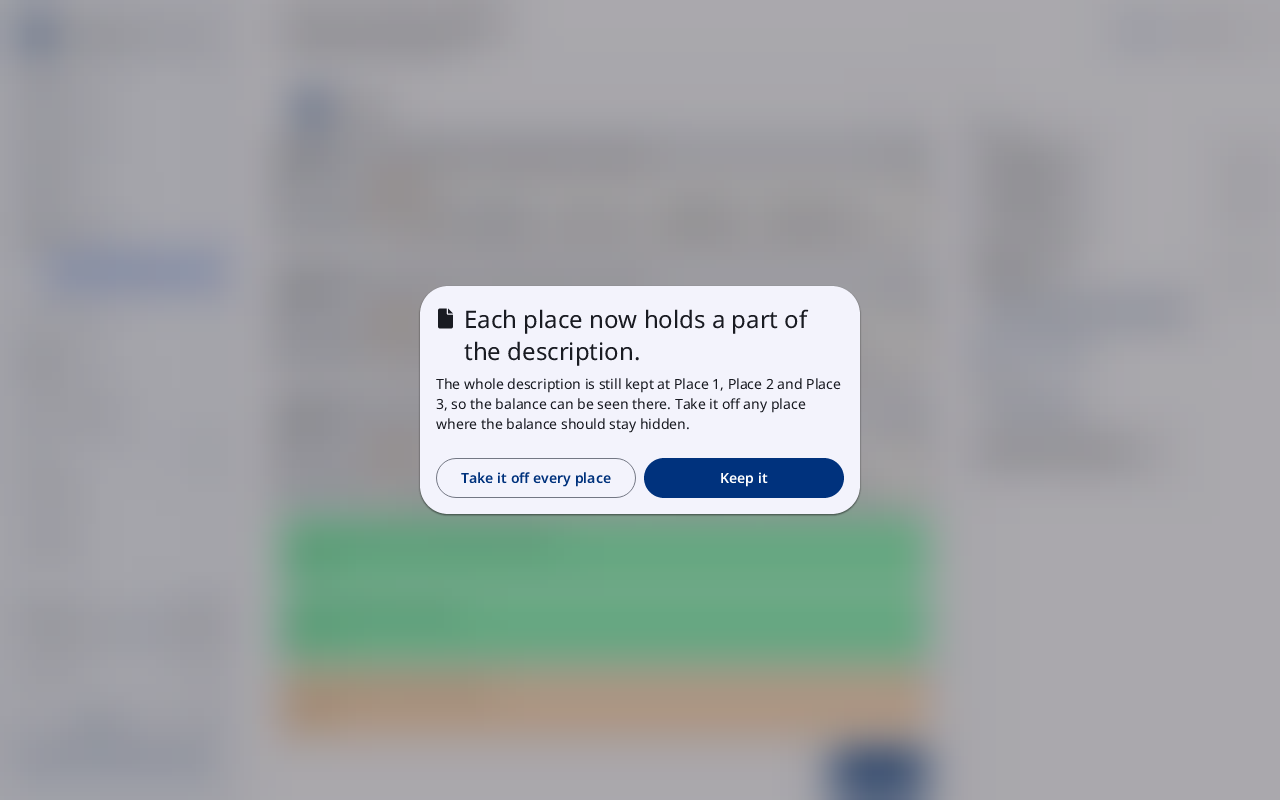
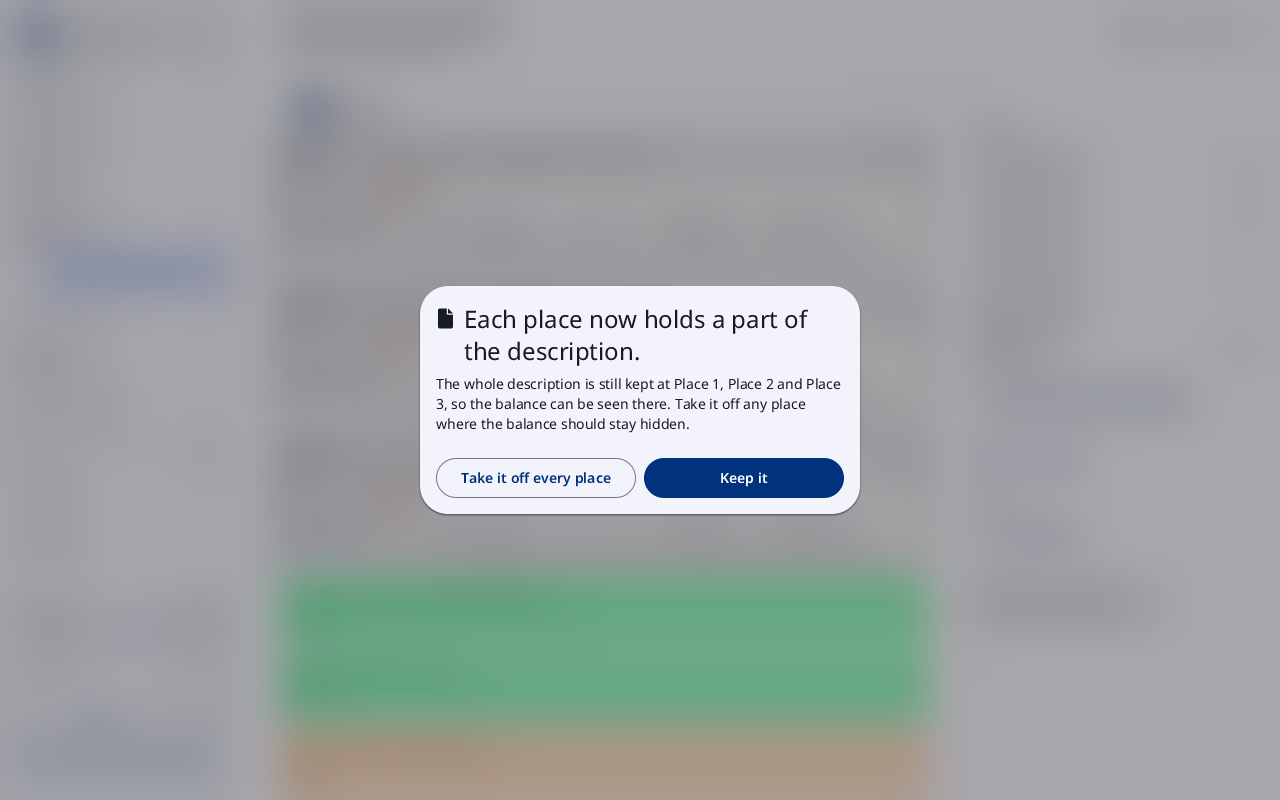
The backup board's item chips are rows one touch target high (48 dp, 44 dp on the compact and short layout), so their ⋮ and × take a full press, and Bring in the sticks' figures have inner padding with their lines level beside the ⋮ and a height fitted to their content. Nothing else on the board mov
Checked against Material 3's Lists page (one-line list items with trailing icon buttons).

Material: Lists (one-line list items, trailing icon buttons)
Reviewed: tree.image-metadata
Reviewed: guide.pictures
Reviewed: strings.plain
Reviewed: structure.areas-private
Reviewed: crypto.at-source
Reviewed: crypto.kept-values
Reviewed: crypto.costs-said
Reviewed: keys.secret-files
Reviewed: keys.child-vault-only
Reviewed: speed.late-flow-timed
Reviewed: speed.shown-secret-held
Reviewed: design.left-out
Claude-Session: https://claude.ai/code/session_01Nu65ePeght7kZfEkyut5bc

Changed region(s): [[0.1875, 0.8125, 0.75, 1.0], [0.2188, 0.625, 0.75, 0.7188]]

diff --git a/faraday/faraday-core/src/board/screen.rs b/faraday/faraday-core/src/board/screen.rs
@@ -139,6 +139,12 @@ fn glyph(t: Thing) -> Option<Icon> {
     }
 }
 
+/// The height in dp of a chip: a row at the touch-target floor of the
+/// layout (`docs/LAYOUT.md` §2, F188), so its ⋮ and × take a full press.
+fn chip_h(ui: &Ui) -> f32 {
+    ui.touch
+}
+
 /// A chip's name is read character by character: a fingerprint.
 fn mono(t: Thing) -> bool {
     matches!(t, Thing::Seed(_) | Thing::Pass(_) | Thing::Kef(_))
@@ -271,13 +277,13 @@ fn chip_size(ui: &Ui, cv: &ChipView, avail: f32) -> Fit {
     } else {
         tokens::BOARD_CHIP_GAP + ui.measure_as(BODY_S, &format!("· {}", cv.marks))
     };
-    let one = tokens::BOARD_CHIP;
+    let one = chip_h(ui);
     // The forms under the name wrap at the chip's width, a row each.
     let rows = toggle_rows(ui, cv, avail - 2.0 * tokens::BOARD_PAD) as f32;
     let two = if cv.forms.is_empty() {
-        tokens::BOARD_CHIP + ui.line_as(BODY_S)
+        chip_h(ui) + ui.line_as(BODY_S)
     } else {
-        tokens::BOARD_CHIP
+        chip_h(ui)
             + tokens::BOARD_TAG
             + (rows - 1.0) * (tokens::BOARD_TAG + tokens::BOARD_CHIP_GAP)
     };
@@ -415,7 +421,7 @@ fn toggles(ui: &mut Ui, cv: &ChipView, (x, y, room): (f32, f32, f32), line_h: f3
 fn chip(ui: &mut Ui, fr: &mut Frame, cv: &ChipView, x: f32, y: f32, fit: Fit, hits: bool) {
     let (w, h) = (fit.w, fit.h);
     let t = cv.chip.thing();
-    let r = tokens::BOARD_CHIP / 2.0;
+    let r = chip_h(ui) / 2.0;
     let held = fr.held == Some(cv.chip);
     let lifted = held && fr.drag.is_some() && hits;
     let action = Action::Board(BoardPress::Chip(cv.chip));
@@ -434,7 +440,7 @@ fn chip(ui: &mut Ui, fr: &mut Frame, cv: &ChipView, x: f32, y: f32, fit: Fit, hi
     } else {
         Role::OnSurface
     };
-    let line_h = tokens::BOARD_CHIP;
+    let line_h = chip_h(ui);
     let step = tokens::BOARD_MARK + tokens::BOARD_CHIP_GAP;
     let g = glyph(t);
     let cx = x + tokens::BOARD_PAD + if g.is_some() { step } else { 0.0 };
@@ -697,7 +703,7 @@ fn band(ui: &mut Ui, x: f32, y: f32, w: f32, h: f32, color: crate::ui::Paint) {
 fn paper_h(ui: &Ui, chips: &[ChipView], w: f32) -> f32 {
     let pad = tokens::BOARD_PAD;
     let (_, ch) = flow(ui, chips, 0.0, 0.0, w - 2.0 * pad);
-    tokens::BOARD_ZONE_LABEL + ch.max(tokens::BOARD_CHIP) + pad
+    tokens::BOARD_ZONE_LABEL + ch.max(chip_h(ui)) + pad
 }
 
 /// A zone box's colours: its fill, its edge, and its label's.
@@ -1297,7 +1303,7 @@ fn stick_parts(ui: &Ui, st: &crate::board::StickView, w: f32) -> (f32, Vec<f32>)
         .iter()
         .map(|vv| {
             let (_, inner_h) = flow(ui, &vv.inside.chips, 0.0, 0.0, iw - 2.0 * vp);
-            tokens::BOARD_VAULT_HEAD + vp + inner_h.max(tokens::BOARD_CHIP) + vp
+            tokens::BOARD_VAULT_HEAD + vp + inner_h.max(chip_h(ui)) + vp
         })
         .collect();
     (paper_h(ui, &st.files.chips, iw), vault_hs)
@@ -1544,7 +1550,7 @@ fn entry(
         cross(
             ui,
             x + w - off_w / 2.0,
-            y + tokens::BOARD_CHIP / 2.0,
+            y + chip_h(ui) / 2.0,
             Role::OnSurfaceVariant.paint(),
         );
     }
@@ -1558,7 +1564,7 @@ fn entry(
                 x,
                 cy,
                 w,
-                tokens::BOARD_CHIP,
+                chip_h(ui),
                 &[(
                     EN.board_take_off,
                     Style::Secondary,
@@ -1619,7 +1625,7 @@ fn list(ui: &mut Ui, fr: &mut Frame, v: &BoardView, x: f32, y: f32, w: f32) -> f
             x,
             cy,
             w,
-            tokens::BOARD_CHIP,
+            chip_h(ui),
             &[(label, Style::Secondary, Action::Board(BoardPress::Partials))],
         ) + gap;
         // The Learn page on shares, as the description card had it.
@@ -1629,12 +1635,12 @@ fn list(ui: &mut Ui, fr: &mut Frame, v: &BoardView, x: f32, y: f32, w: f32) -> f
             x,
             cy,
             Some(bw),
-            tokens::BOARD_CHIP,
+            chip_h(ui),
             label,
             Style::Ghost,
             Action::LearnShares,
         );
-        cy += tokens::BOARD_CHIP + gap;
+        cy += chip_h(ui) + gap;
     } else if let Some(Some(line)) = v.splits {
         // A multisig whose description does not split, and why.
         cy += gap;
@@ -1654,7 +1660,7 @@ fn list(ui: &mut Ui, fr: &mut Frame, v: &BoardView, x: f32, y: f32, w: f32) -> f
         x,
         cy,
         w,
-        tokens::BOARD_CHIP,
+        chip_h(ui),
         &[(
             EN.board_add_vault,
             Style::Secondary,
@@ -1965,7 +1971,7 @@ pub(crate) fn board(app: &View, ui: &mut Ui, x: f32, y: f32, w: f32) -> f32 {
         } else {
             read_only_buttons(&v)
         };
-        cy += faraday_ui::parts::wrap_buttons(ui, x, cy, w, tokens::BOARD_CHIP, &buttons)
+        cy += faraday_ui::parts::wrap_buttons(ui, x, cy, w, chip_h(ui), &buttons)
             + tokens::BOARD_PAD;
     }
     cy += cells(ui, &mut fr, &v, (x, cy, ww), cols);
@@ -2094,7 +2100,7 @@ fn list_in(app: &View, ui: &mut Ui, (px, top, pw, view): Box4, card: bool) {
                 x,
                 cy,
                 w,
-                tokens::BOARD_CHIP,
+                chip_h(ui),
                 &read_only_buttons(&v),
             );
         }
@@ -2147,7 +2153,7 @@ fn list_in(app: &View, ui: &mut Ui, (px, top, pw, view): Box4, card: bool) {
             gy,
             fit.w,
             fit.h,
-            tokens::BOARD_CHIP / 2.0,
+            chip_h(ui) / 2.0,
             tokens::ELEVATION_RAISED,
         );
         let mut ghost = Frame { held: None, ..fr };
@@ -2155,7 +2161,7 @@ fn list_in(app: &View, ui: &mut Ui, (px, top, pw, view): Box4, card: bool) {
         edge(
             ui,
             (gx, gy, fit.w, fit.h),
-            tokens::BOARD_CHIP / 2.0,
+            chip_h(ui) / 2.0,
             Role::Primary.paint(),
         );
     }

diff --git a/faraday/faraday-core/src/backup_flow/figures.rs b/faraday/faraday-core/src/backup_flow/figures.rs
@@ -320,6 +320,30 @@ fn figures(app: &View, f: &BackupFlow) -> Vec<Figure> {
         .collect()
 }
 
+/// The inner padding of a figure: the stick head's own inset, so the
+/// lines stand under its glyph.
+const PAD: f32 = BOARD_STICK_PAD + GAP_SMALL;
+
+/// The room a figure's ⋮ button takes at its right end, on the lines
+/// that stand beside it.
+const DOTS_ROOM: f32 = TOUCH + GAP_SMALL;
+
+/// Whether an item is a button, a full-width press that stands under
+/// the ⋮ and never beside it.
+fn is_button(it: &Item) -> bool {
+    matches!(it, Item::Boot(_) | Item::Later(_))
+}
+
+/// The width of an item whose top is `top` below the figure's top, in
+/// `inner` of room: narrower where the ⋮ stands beside it.
+fn item_w(fg: &Figure, it: &Item, top: f32, inner: f32) -> f32 {
+    if fg.dots && !is_button(it) && top < BOARD_STICK_PAD + TOUCH {
+        inner - DOTS_ROOM
+    } else {
+        inner
+    }
+}
+
 fn item_h(ui: &Ui, it: &Item, w: f32) -> f32 {
     match it {
         Item::Text(t, _) => ui.wrap_height_as(BODY_S, t, w),
@@ -329,19 +353,31 @@ fn item_h(ui: &Ui, it: &Item, w: f32) -> f32 {
     }
 }
 
+/// Where each item of `fg` starts below the figure's top, its width and
+/// its height, and the figure's height. The lines start under the head
+/// in every state, the ⋮ beside them; a button starts under the ⋮.
+fn place(ui: &Ui, fg: &Figure, w: f32) -> (Vec<(f32, f32, f32)>, f32) {
+    let inner = w - 2.0 * PAD;
+    let mut top = BOARD_STICK_HEAD;
+    let mut out = Vec::with_capacity(fg.items.len());
+    for it in &fg.items {
+        if fg.dots && is_button(it) {
+            top = top.max(BOARD_STICK_PAD + TOUCH + GAP_SMALL);
+        }
+        let iw = item_w(fg, it, top, inner);
+        let ih = item_h(ui, it, iw);
+        out.push((top, iw, ih));
+        top += ih + GAP_SMALL;
+    }
+    let mut h = top + PAD - GAP_SMALL;
+    if fg.dots {
+        h = h.max(BOARD_STICK_PAD + TOUCH + BOARD_STICK_PAD);
+    }
+    (out, h)
+}
+
 fn figure_h(ui: &Ui, fg: &Figure, w: f32) -> f32 {
-    let top = if fg.dots {
-        TOUCH + BOARD_STICK_PAD
-    } else {
-        BOARD_STICK_HEAD
-    };
-    let inner = w - 2.0 * BOARD_STICK_PAD;
-    let body: f32 = fg
-        .items
-        .iter()
-        .map(|it| item_h(ui, it, inner) + GAP_SMALL)
-        .sum();
-    (top + body + BOARD_STICK_PAD).max(TOUCH)
+    place(ui, fg, w).1
 }
 
 /// The figures from (x, y) in `w`. Returns their height.
@@ -369,30 +405,29 @@ pub(crate) fn draw(app: &View, f: &BackupFlow, ui: &mut Ui, x: f32, y: f32, w: f
 }
 
 fn draw_one(ui: &mut Ui, fr: &board_screen::CardFrame, fg: &Figure, r: (f32, f32, f32, f32)) {
-    let (x, y, w, h) = r;
-    let head = board_screen::card_stick(ui, fr, &fg.name, r, fa(F::Want(fg.k)), false);
+    let (x, y, w, _) = r;
+    board_screen::card_stick(ui, fr, &fg.name, r, fa(F::Want(fg.k)), false);
     match fg.state {
         State::Reading => menu::outline(ui, r, GAP, BOARD_EDGE, Role::Primary.paint()),
         State::Checked => menu::outline(ui, r, GAP, BOARD_EDGE, Role::Ok.paint()),
         State::Problem(_) => menu::outline(ui, r, GAP, BOARD_EDGE, Role::Error.paint()),
         State::Waiting | State::Later => {}
     }
-    let sp = BOARD_STICK_PAD;
-    let inner = w - 2.0 * sp;
-    let mut cy = y + if fg.dots { TOUCH + sp } else { head };
+    let sp = PAD;
+    let (spots, _) = place(ui, fg, w);
     if fg.dots {
         // Inside the card's edge, as its content is.
         menu::button(
             ui,
-            x + w - sp - TOUCH,
-            y + sp,
+            x + w - BOARD_STICK_PAD - TOUCH,
+            y + BOARD_STICK_PAD,
             TOUCH,
             fa(F::FigMenu(fg.k)),
             false,
         );
     }
-    for it in &fg.items {
-        let ih = item_h(ui, it, inner);
+    for (it, (top, inner, ih)) in fg.items.iter().zip(spots) {
+        let cy = y + top;
         match it {
             Item::Text(t, role) => {
                 ui.wrap_as((x + sp, cy, inner), BODY_S, *role, t);
@@ -441,9 +476,7 @@ fn draw_one(ui: &mut Ui, fr: &board_screen::CardFrame, fg: &Figure, r: (f32, f32
                 );
             }
         }
-        cy += ih + GAP_SMALL;
     }
-    debug_assert!(cy <= y + h + 1.0);
 }
 
 /// A figure's ⋮ menu (`docs/STICK-SETUP.md` §3.3, §4), as every ⋮ menu is

diff --git a/core/faraday-draw/src/tokens.rs b/core/faraday-draw/src/tokens.rs
@@ -586,7 +586,9 @@ pub const SILENT_LINE_GAP: f32 = 14.0;
 pub const CREATE_FIELD_LABEL: f32 = 20.0;
 /// Least height in dp of a Create card's wrapped value line.
 pub const CREATE_VALUE_MIN: f32 = 18.0;
-/// Height in dp of a chip, on the cards and in the list.
+/// Height in dp of a row of the Layout screen's vault chips and the least
+/// height of a board's row of boxes; the board's chips are one touch
+/// target high (`tokens::touch`).
 pub const BOARD_CHIP: f32 = 28.0;
 /// The gap in dp between two chips, beside or under each other.
 pub const BOARD_CHIP_GAP: f32 = GAP_SMALL;

diff --git a/faraday/shells/snapshot/src/targets.rs b/faraday/shells/snapshot/src/targets.rs
@@ -31,9 +31,8 @@ pub(crate) fn excepted(action: &str, small: bool) -> bool {
         return true;
     }
     // The codex32 worksheet's cells, a grid that must be read whole
-    // (F152), and the backup board's chips, sharing the gap with their
-    // neighbours (F108).
-    action.starts_with("Codex32(Cell(") || action.starts_with("Board(Chip(")
+    // (F152).
+    action.starts_with("Codex32(Cell(")
 }
 
 /// The line `targets.txt` and the test's report carry for `s`, found in

diff --git a/docs/DESIGN.md b/docs/DESIGN.md
@@ -646,7 +646,7 @@ fill, edge and shadow, and its text is `TEXT` on `SURFACE`.
 | Zone | Paper and Scanned in: a box at `GAP` radius in the paper colours, `BOARD_PAD` inside: its glyph and label in caption, semibold, on a `BOARD_ZONE_LABEL` row, then its chips laid left to right and wrapping, `BOARD_CHIP_GAP` apart; an empty zone keeps a chip's height. **+ stick** is the dashed box with its label alone. A stick box is headed by its stick pill's number, one numbering across the places, from 2 (F146): "Stick 2", "Stick 3"; the software place's stick of public files is one too, with no × of its own and no **+ stick** beside it. | A press on a zone places the chip held. A zone is a drop target only for what it can keep in some form (`docs/BACKUP-FLOW.md` §17.3). |
 | Stick box | A box at `GAP` radius in the stick colours, `BOARD_STICK_PAD` inside. Its head, `BOARD_STICK_HEAD` high: the USB stick glyph (`Glyph::Stick`, Faraday's own drawing: the icon face has none; the SD card's and "SD card n" on the Pi) and "Stick n" in caption, semibold, and its × at the right. Under the head the files box (`docs/BACKUP-FLOW.md` §17.17), on every stick, laid as Paper is (its glyph and label on a `BOARD_ZONE_LABEL` row, then its chips; empty, a chip's height), then, `BOARD_STICK_PAD` under it, the vault box when the stick carries one. An empty stick a press on **+ stick** added (§19.16) is the same box with its files box alone. | A press or a drop on the files box, or on the stick box outside the vault box, keeps the thing on the stick as a file. Its × takes the stick off with all it carries; after the lock it is drawn only on a stick that carries a vault and no file. |
 | Vault box | A box at `GAP` radius inside the stick box in the vault colours, `BOARD_VAULT_PAD` inside. Its head, `BOARD_VAULT_HEAD` high, is the solid band, and the vault's chip: the closed lock, "Vault n · sealed" in the label type, semibold, its link and warning marks, its × at the right, all in `VAULT_ON`; hovered, focused or pressed, Material's state layer in `VAULT_ON` over it in the band's shape. Under the head the records it holds, chips laid as a zone's, each with the lock mark. | A press or a drop on the vault box seals the thing in the vault. The head selects the vault (a press on another place moves its stick); its × takes the vault's stick off this place. |
-| Chip | A pill `BOARD_CHIP` high, as the table above draws it, `BOARD_PAD` at each end: its glyph where it has one (the fingerprint before a seed, the passphrase glyph before a passphrase, the closed lock before a vault; the description and a share have none), its name (a fingerprint in mono at the label size, anything else in the text face), then its forms: on the read-only board (before **Customize backup**) after a middle dot in caption, muted ("9a6a2580 · Words · SeedQR"); once customised, where the zone has more than one form for it, as **Form toggles**. Marks at its right, from the edge in: its ⋮ after a thin rule (once customised; **Chip's ⋮**), the × of a placed chip, the warning mark, the link mark, the lock mark (a placed chip in a vault: the lock glyph in `VAULT_EDGE`), each `BOARD_MARK` with `BOARD_CHIP_GAP` before it. A chip whose forms do not fit beside its name drops them to a second line under it (a caption line, or a row of toggles `BOARD_TAG` high). | One chip per thing per zone; its forms are what it carries there. |
+| Chip | A pill one touch target high (48 dp; 44 dp on the compact and short layout, F188), as the table above draws it, `BOARD_PAD` at each end: its glyph where it has one (the fingerprint before a seed, the passphrase glyph before a passphrase, the closed lock before a vault; the description and a share have none), its name (a fingerprint in mono at the label size, anything else in the text face), then its forms: on the read-only board (before **Customize backup**) after a middle dot in caption, muted ("9a6a2580 · Words · SeedQR"); once customised, where the zone has more than one form for it, as **Form toggles**. Marks at its right, from the edge in: its ⋮ after a thin rule (once customised; **Chip's ⋮**), the × of a placed chip, the warning mark, the link mark, the lock mark (a placed chip in a vault: the lock glyph in `VAULT_EDGE`), each `BOARD_MARK` with `BOARD_CHIP_GAP` before it. A chip whose forms do not fit beside its name drops them to a second line under it (a caption line, or a row of toggles `BOARD_TAG` high). | One chip per thing per zone; its forms are what it carries there. |
 | Chip in the list | The same pill, one per row, its count of places at the row's right in caption, muted ("2 places", "1 place", nothing at none); A vault's chip carries its × at the row's right. A cosigner's seed is outlined, not filled, its name dim, "Not here" for its count. A vault no place keeps a stick of is filled as any chip, its name and glyph dim (§19.16). On `wide` the list is the right-hand column where Back up's Map is when the board is not shown (`side_panel_w`, full height, `SURFACE` with a rule at its left), scrolling on its own with its overlay scrollbar, the list from its top, grouped under caption labels: Seeds, Passphrases, Wallet description (Whole, then **Keys left off each share** as a − n + stepper of buttons a chip high, then each share), Vaults with **+ new vault**, Watch-only software. | Never runs out: placing it places a copy. A cosigner's seed takes no press. A vault's × takes it off the plan; one that holds anything first shows what it holds in `WARN` under it, with **Take off**. |
 | Add sheet | In the narrow column only, once the board is customised: **Add**, a secondary button a chip high at the top of the board, opens the list as a sheet (the small panel's full-width sheet, its head the add glyph and "Add", the list's groups, each chip with its ⋮, a way out at its foot). | A press on a chip in the sheet, or on its ⋮, opens its **⋮ menu** (Add to…) over the sheet; a box chosen places it and closes both (`docs/BACKUP-FLOW.md` §17.20 item 4). Nothing is dragged there. |
 | Placed chip | The chip in its zone, with its × and its ⋮ once the board is customised. A chip of what an existing vault held before is outlined and dim and has no × and no ⋮. | A press selects it. The × takes it off. |

diff --git a/docs/decisions/F152.md b/docs/decisions/F152.md
@@ -31,7 +31,7 @@ held them.
   `docs/M3-CHECKS.md` §3 naming its case and size classes. Allowed: the
   on-screen keyboard's and word entry's keys on the 240 × 320 and
   480 × 640 panels, the codex32 worksheet's cells, and the backup
-  board's chips (already allowed by F108). A new row is the owner's
+  board's form toggles (already allowed by F108). A new row is the owner's
   decision, recorded here.
 - **State layers by construction.** A pressable region is made only
   through faraday-ui's press functions, which draw its hover, focus and
@@ -49,8 +49,9 @@ held them.
 240 × 320, 480 × 640 and 1024 × 600 layouts is held at 34, 31 and 66
 (up 3, 5 and 2): a stick holding two vaults shows its item chips' ⋮ and
 × inside the second vault box, the board's stacked 28 dp chips, which
-cannot reach 48 dp without overlapping. They stay until the board's
-item chips are drawn as 48 dp rows.
+cannot reach 48 dp without overlapping. The chips are now rows at the
+floor (48 dp, 44 dp on the compact and short layout) and those lines
+have fallen; what the board still counts are its form toggles.
 
 **Amends** F108: a split target under the floor is a defect, the
 exceptions are listed, the states are drawn by construction, and the

diff --git a/docs/M3-CHECKS.md b/docs/M3-CHECKS.md
@@ -170,7 +170,7 @@ allowed these three (§8, Q2; F152).
 |---|---|---|---|---|
 | The on-screen keyboard and word entry's keys: ten keys across a 240 to 268 dp panel | `Osk`, `EntryKey`, `EntryKeyBack`, `EntryShift` | small: the 240 × 320 and 480 × 640 panels | 22 to 25 × 26 px against a 43 px floor at 240 × 320; 45 to 52 × 52 px against 86 at 480 × 640 | F152 |
 | The codex32 worksheet's cells, a grid that must be read whole | `Codex32` (worksheet cells) | every class | 28 to 30 × 30 px against 48 at 1280 × 800 | F152 |
-| The backup board's chips, 28 and 20 dp, sharing the gap with their neighbours | `Board` (chips) | every class | 38 × 32 to 40 px against 48 at 1280 × 800 | F108 (its touch targets line) |
+| The backup board's form toggles on a chip, 20 dp | `Board` (toggles) | every class | 20 dp against 48 | F108 (its touch targets line) |
 
 Everything else under the floor is a defect, on every layout, the
 desktop's included (§8, Q3): it is counted in the ratchet and

diff --git a/docs/BACKUP-FLOW.md b/docs/BACKUP-FLOW.md
@@ -2172,6 +2172,9 @@ the visible way to place, move, copy and take off without dragging.
    a thin vertical rule, then ⋮ at its right end (`[ ◉ 9a6a2580 │ ⋮ ]`);
    a placed chip keeps its form toggles before the rule. The ⋮ is its
    own press target; the rest of the chip drags or selects as today.
+   A chip is a row as tall as the touch-target floor (48 dp; 44 dp on
+   the 2.8-inch's compact and short layout, F188), so its ⋮ and × take a
+   full press with the chips stacked.
    Not shown on the read-only board (before Customize backup).
 2. **A list chip's ⋮: Add to…**, one menu listing every box that can
    take the item, grouped under each place's name (as the place is
